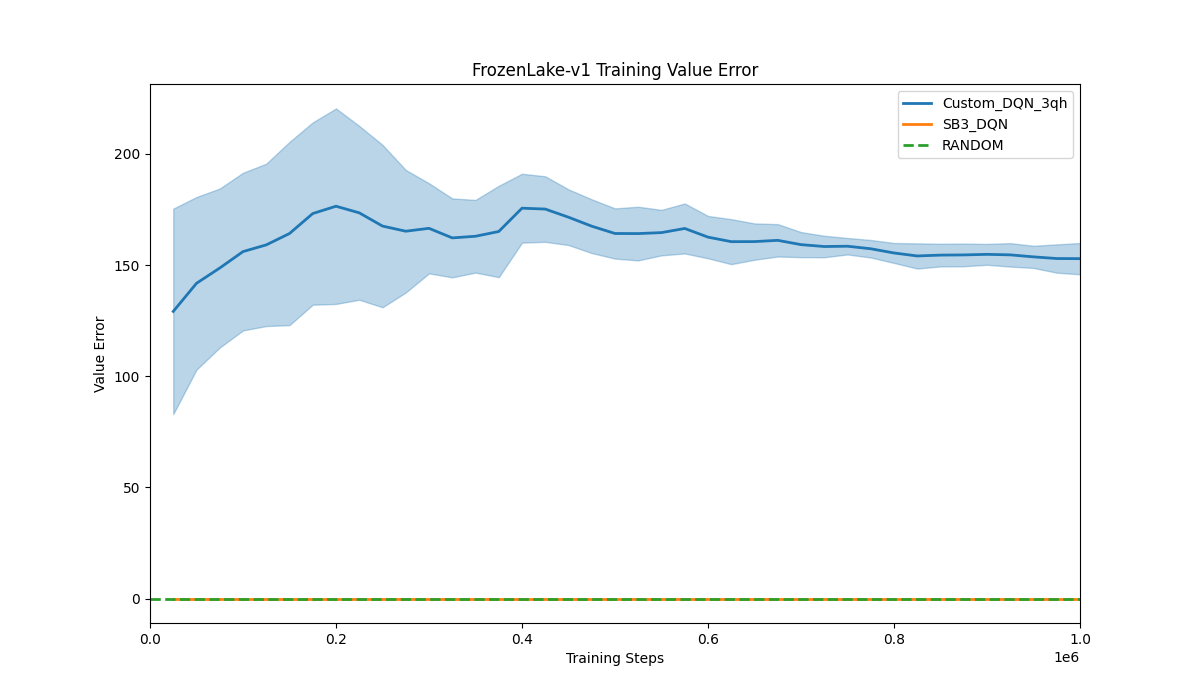
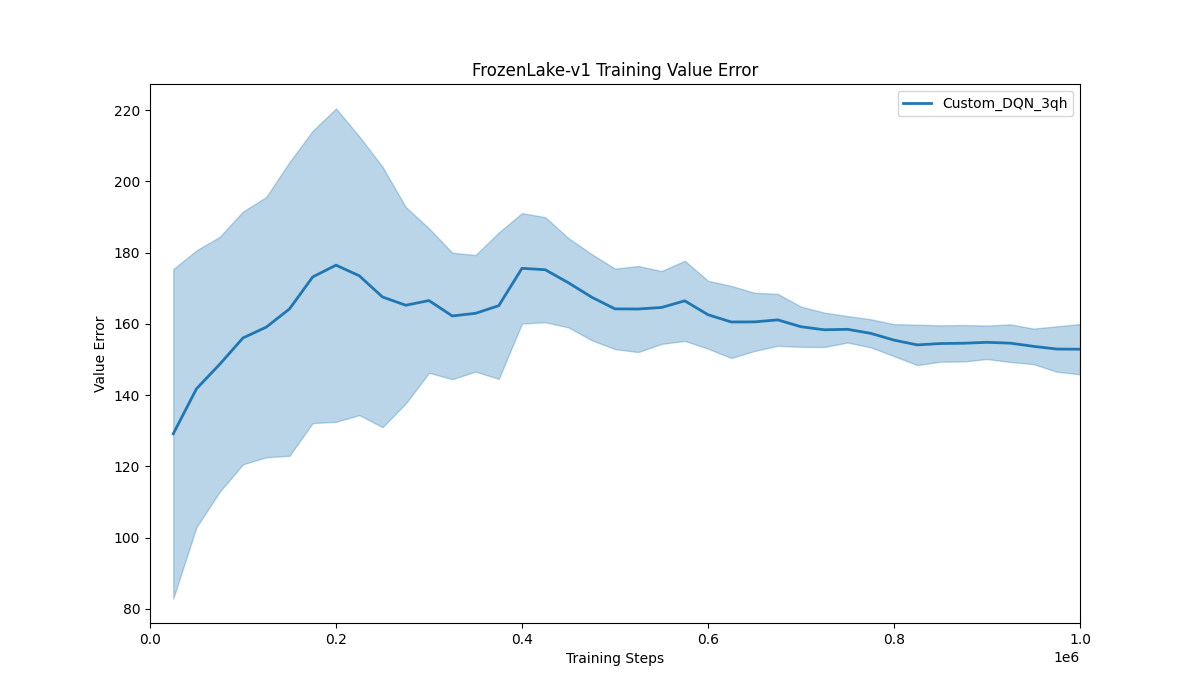
fix value error plots

diff --git a/src/plot_results.py b/src/plot_results.py
@@ -5,11 +5,12 @@ import pandas as pd
 from matplotlib import pyplot as plt
 import re
 
-from config.training_config import RANDOM_AGENT, SMA_MEAN_FILE, SMA_STD_FILE, HEADS_DIR
+from config.training_config import SMA_MEAN_FILE, SMA_STD_FILE, HEADS_DIR
 from utils.logging import REWARD, STEPS, VALUE_ERROR
 
 VALIDATION = "Validation_Results"
 TRAINING = "Training_Results"
+RANDOM_AGENT = "RANDOM"
 
 
 def plot_results(
@@ -46,8 +47,11 @@ def plot_results(
 
         plt.xlabel(x_label)
         plt.ylabel(col_name)
+
         for idx, (agent_name, (means, stds)) in enumerate(results_to_plot.items()):
             if col_name not in means:
+                continue
+            if col_name == VALUE_ERROR and ("SB3" in agent_name.upper() or agent_name == "RANDOM"):
                 continue
             mean = means[col_name].values.astype(float)
             if not np.isfinite(mean).any():
@@ -116,9 +120,9 @@ def load_csvs_heads(base_dir):
 
 
 def main():
-    env_name = "LunarLander-v3"  # just for plot title
+    env_name = "FrozenLake-v1"  # just for plot title
     base_dir = f"results/{env_name}/1.0M"
-    algos_to_plot = ["Custom_DQN_3qh", "SB3_PPO", "SB3_DQN", "RANDOM"]
+    algos_to_plot = ["Custom_DQN_3qh", "SB3_DQN", "RANDOM"]
     save_dir = f"{base_dir}/_plots"
 
     plot_training_results = True  # set false to plot eval results
